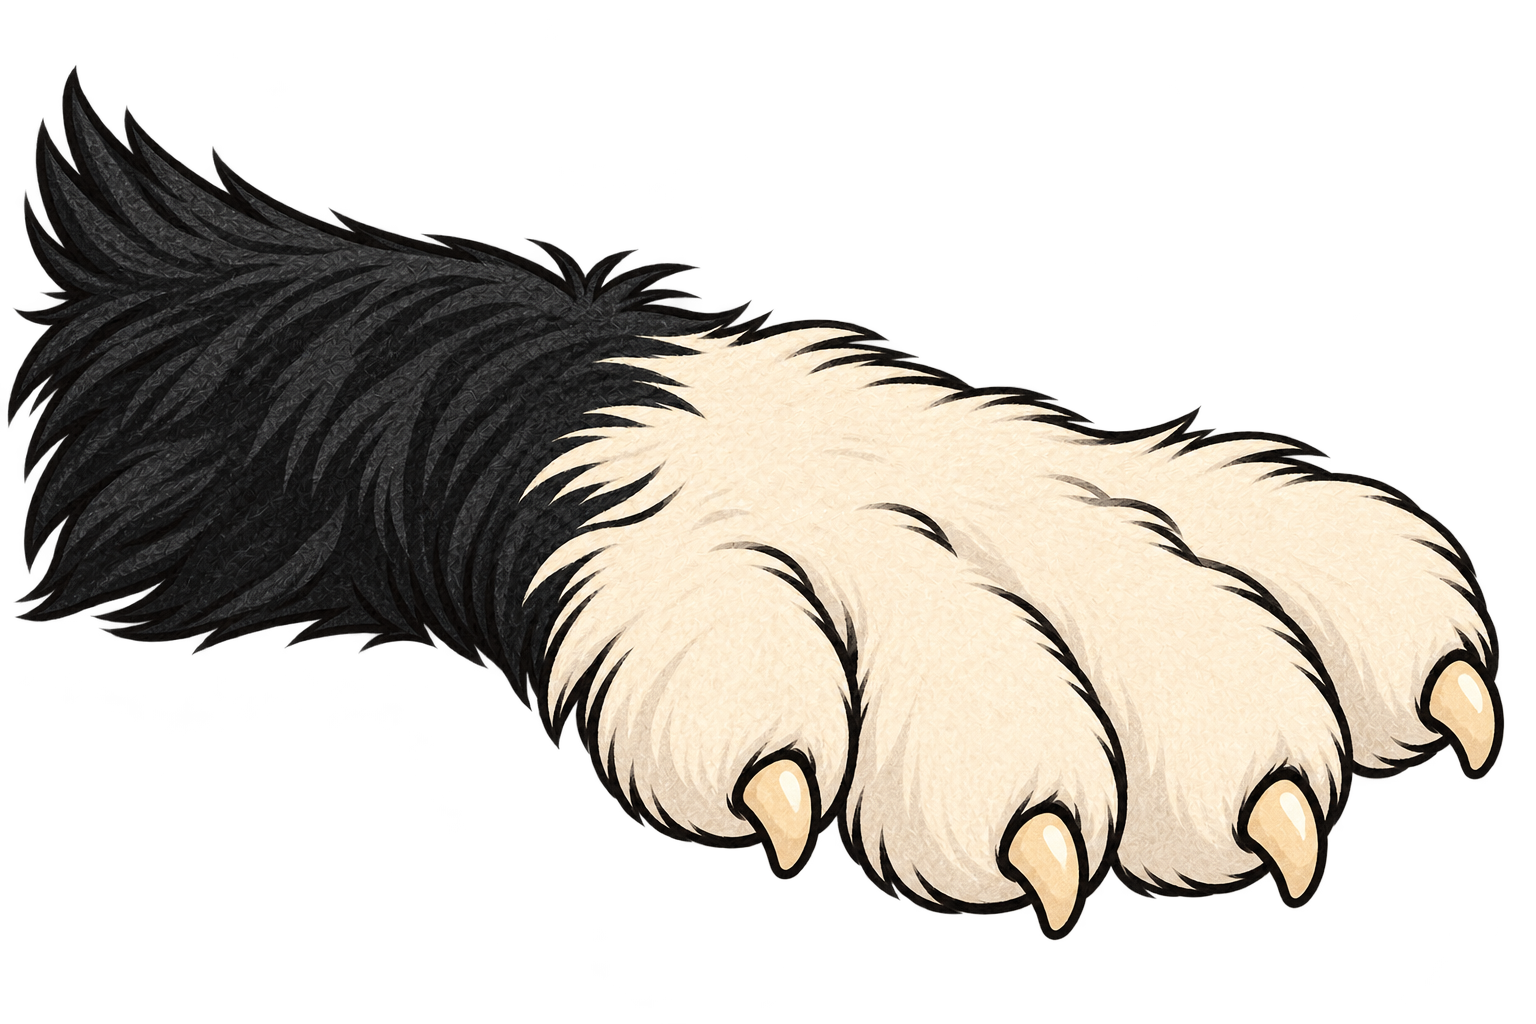
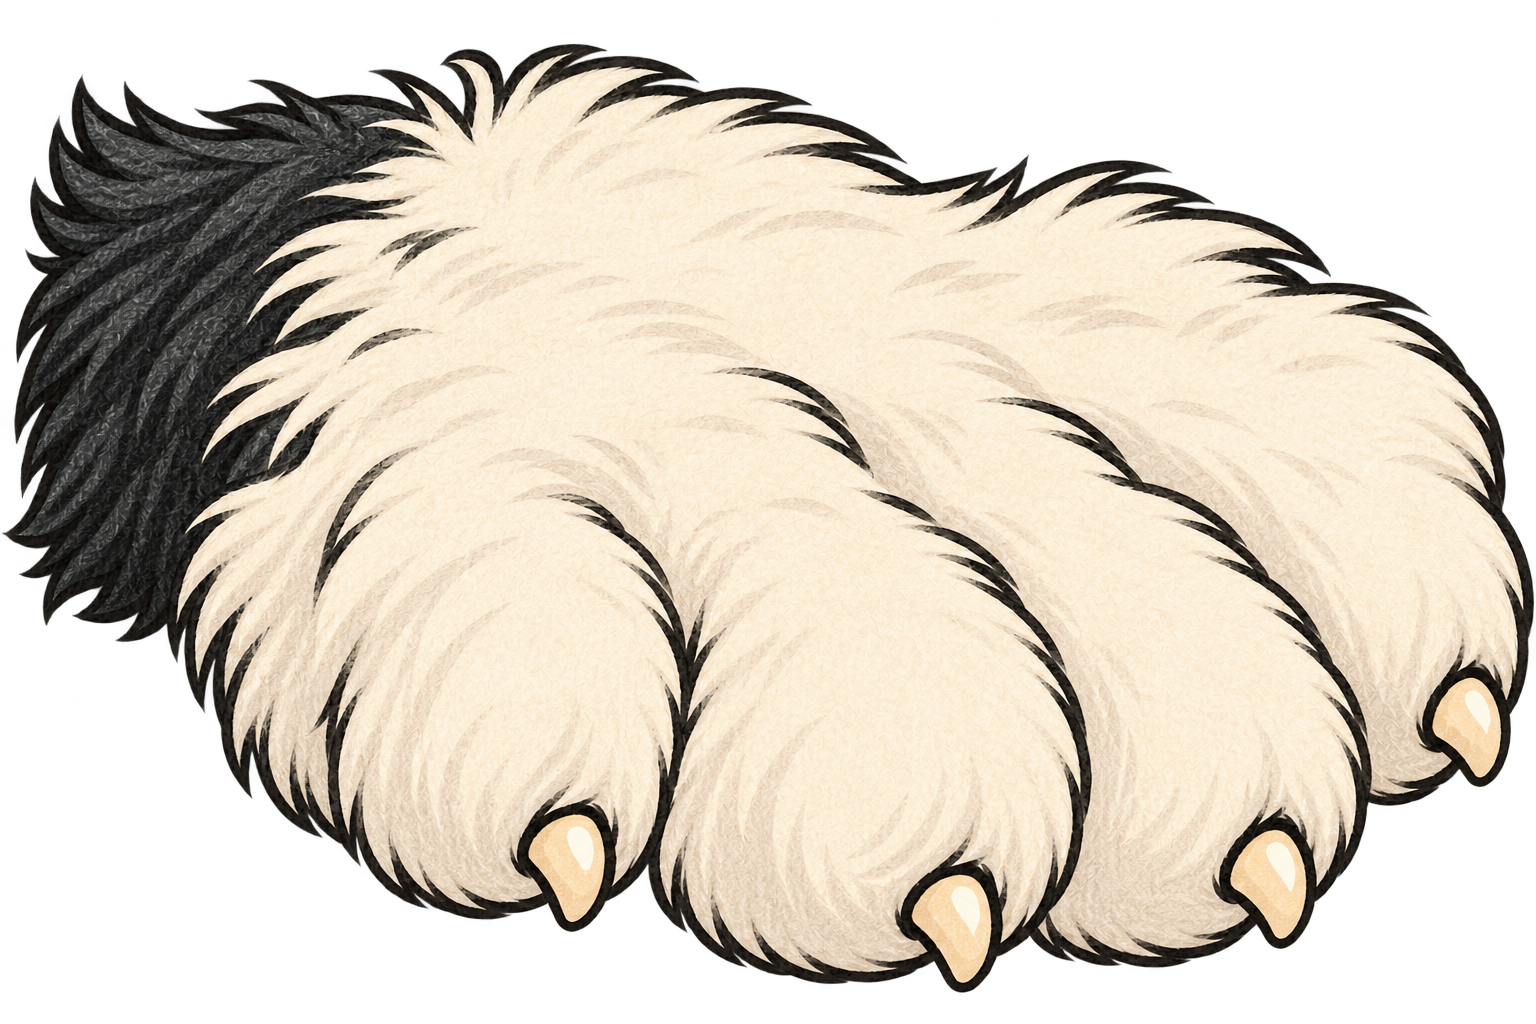
Small fix
Release 20261010120210.

diff --git a/index.html b/index.html
@@ -176,7 +176,7 @@ let holding = false, holdPos = aim, taps = [], dropTimer = 0, saveTimer = 0, las
 // test-build readout at the bottom of the screen: physics time per step (ms) and frames per second, smoothed
 const perf = { step: 0, fps: 60 };
 // when this version was published (publish_game.ps1 fills it in), shown in the readout
-const BUILD = 'Oct 10, 11:51 AM · board preview';
+const BUILD = 'Oct 10, 12:02 PM · board preview';
 
 function initPhysics() {
   // the table tilts gently down toward the player (TILT_DEG): coins at rest stay put, but a push moves them
@@ -1453,10 +1453,10 @@ function drawPaws() {
  }
  const cy=VIEW.y+proj(200,depth).y*VIEW.zy;
  for(const side of [-1,1]) {
-  const base=side<0?20:W-20,inner=side<0?136:W-136;
+  const base=side<0?-12:W+12,inner=side<0?100:W-100;
   ctx.save();ctx.translate(base+(inner-base)*reach,cy+Math.sin(time*2)*1.2);
   if(side>0)ctx.scale(-1,1);
-  const w=128,h=w*ART.paw.height/ART.paw.width;
+  const w=280,h=w*ART.paw.height/ART.paw.width;
   ctx.drawImage(ART.paw,-w/2,-h/2,w,h);ctx.restore();
  }
 }
